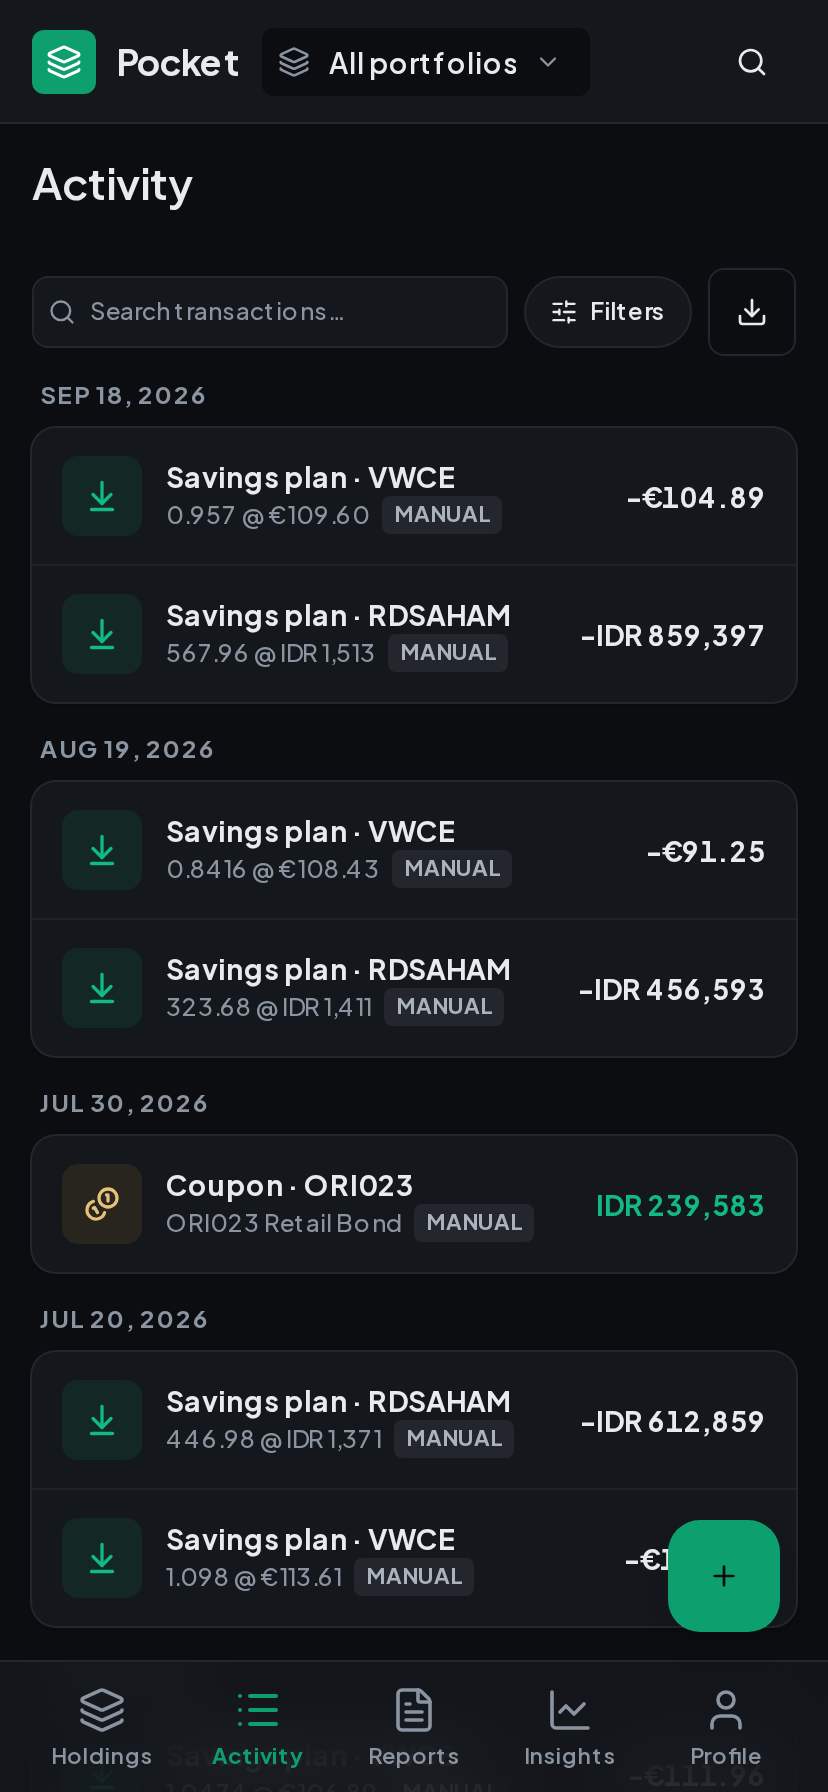
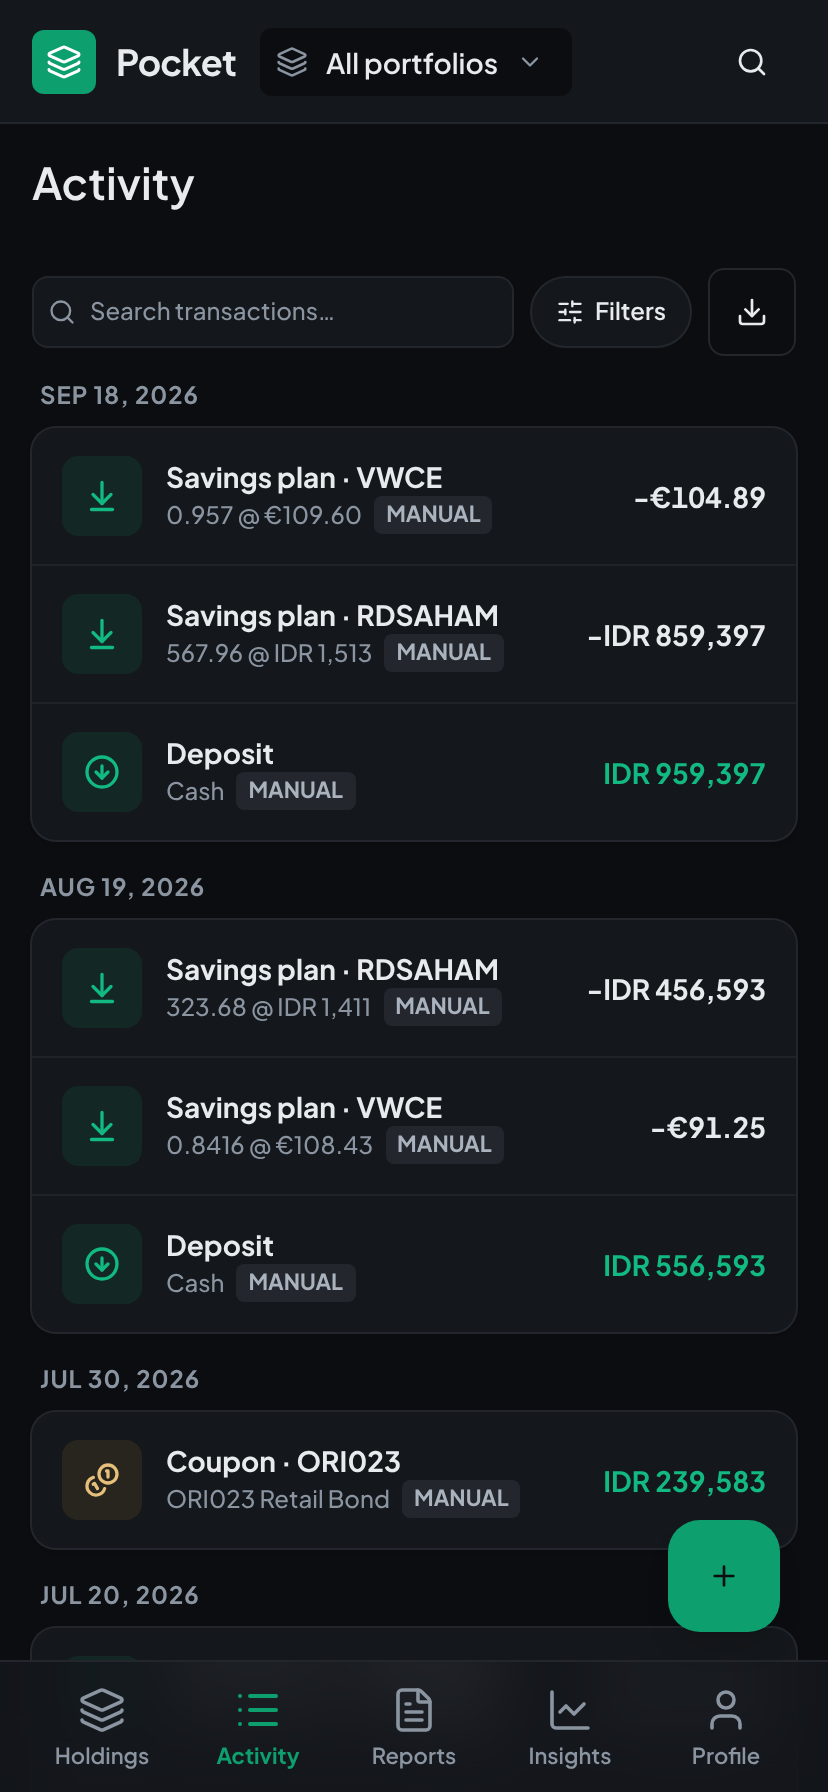
chore(screenshots): capture the German tax screens in EUR (#1065)
* chore(screenshots): capture the German tax screens in EUR

The tax captures render the DE regime (FSA allowance, Vorabpauschale), which
reads naturally in euros, but showed the demo user's IDR display currency.

- scripts/screenshots.mjs: screens can carry `settings` that are switched for
  that capture only and restored afterwards (also when the capture throws), via
  the same endpoints the app's own settings controls use (PATCH /me for the
  display currency, PUT /me/preferences for the regime), through the
  same-origin backend proxy. The tax screen pins taxRegime DE (previously only
  the API default) and displayCurrency EUR; every other screen keeps IDR. A
  setting the API doesn't echo back fails the run; already-applied settings
  are rolled back on a partial failure.
- seed-demo: seed IDR->EUR daily rates (the exact inverse of EUR->IDR). With
  FX_PROVIDER=none nothing filled that pair, so in EUR the IDR holdings were
  left out of every total behind an "Exchange rate missing" banner. Rates are
  now rounded to 20 significant digits instead of 10 decimal places, which
  would have kept only ~6 digits of a ~0.00006 rate.
- Recaptured every screen on current main (through #1063) and regenerated the
  OG card. Holdings/Insights figures are unchanged (chart-animation frames
  only); Activity and the Reports tax card pick up the interest rows #1063
  seeded.

Claude-Session: https://claude.ai/code/session_01MCMBjbxwVkouF222d7Qeyb
[…]

diff --git a/apps/web/test/screenshots-script.test.ts b/apps/web/test/screenshots-script.test.ts
@@ -4,6 +4,11 @@ import {
   settle,
   devOverlayHasIssues,
   DEV_INDICATOR_HIDE_CSS,
+  SCREENS,
+  withSettings,
+  CHROMIUM_ARGS,
+  assertLocalWebUrl,
+  hintingWarning,
 } from "../scripts/screenshots.mjs";
 
 describe("screenshots script — dev indicator", () => {
@@ -99,5 +104,213 @@ describe("screenshots script — dev indicator", () => {
     expect(devOverlayHasIssues()).toBe(true);
     portal.remove();
     expect(devOverlayHasIssues()).toBe(false);
+  });
+});
+
+describe("screenshots script — per-screen settings", () => {
+  /** A stub Playwright APIRequestContext over an in-memory user + preferences row. */
+  function stubRequest(state = { displayCurrency: "IDR", taxRegime: "DE" }, failOn?: string) {
+    const calls: string[] = [];
+    const request = {
+      fetch: vi.fn(async (url: string, opts: { method: string; data?: Record<string, string> }) => {
+        const route = new URL(url).pathname;
+        calls.push(`${opts.method} ${route}`);
+        const status = failOn === `${opts.method} ${route}` ? 500 : 200;
+        if (status === 200 && opts.data) Object.assign(state, opts.data);
+        const body =
+          route === "/api/backend/me"
+            ? { displayCurrency: state.displayCurrency }
+            : { taxRegime: state.taxRegime };
+        return { ok: () => status === 200, status: () => status, json: async () => body };
+      }),
+    };
+    return { request, state, calls };
+  }
+
+  it("captures the tax screen in the DE regime with EUR as the display currency", () => {
+    const tax = SCREENS.find((s: { slug: string }) => s.slug === "tax");
+    expect(tax?.settings).toEqual({ taxRegime: "DE", displayCurrency: "EUR" });
+    // Every other screen stays in the demo user's own (IDR) display currency.
+    for (const s of SCREENS.filter((s: { slug: string }) => s.slug !== "tax"))
+      expect(s.settings).toBeUndefined();
+  });
+
+  it("withSettings applies the settings for the capture, then restores the previous ones", async () => {
+    const { request, state, calls } = stubRequest();
+    let during: unknown;
+    await withSettings({ request }, { taxRegime: "DE", displayCurrency: "EUR" }, async () => {
+      during = { ...state };
+    });
+    expect(during).toEqual({ displayCurrency: "EUR", taxRegime: "DE" });
+    expect(state).toEqual({ displayCurrency: "IDR", taxRegime: "DE" });
+    // Through the same-origin proxy the app's own settings controls use.
+    expect(calls).toContain("PATCH /api/backend/me");
+    expect(calls).toContain("PUT /api/backend/me/preferences");
+  });
+
+  it("withSettings restores the previous settings even when the capture fails", async () => {
+    const { request, state } = stubRequest();
+    await expect(
+      withSettings({ request }, { displayCurrency: "EUR" }, async () => {
+        throw new Error("tax: page did not settle");
+      }),
+    ).rejects.toThrow(/did not settle/);
+    expect(state.displayCurrency).toBe("IDR");
+  });
+
+  it("withSettings fails the run when a setting can't be applied", async () => {
+    const { request } = stubRequest(undefined, "PATCH /api/backend/me");
+    const capture = vi.fn();
+    await expect(withSettings({ request }, { displayCurrency: "EUR" }, capture)).rejects.toThrow(
+      /PATCH \/api\/backend\/me .*500/,
+    );
+    expect(capture).not.toHaveBeenCalled();
+  });
+
+  it("withSettings puts back the settings it already applied when a later one fails", async () => {
+    const { request, state } = stubRequest(
+      { displayCurrency: "IDR", taxRegime: "ID" },
+      "PATCH /api/backend/me",
+    );
+    const capture = vi.fn();
+    await expect(
+      withSettings({ request }, { taxRegime: "DE", displayCurrency: "EUR" }, capture),
+    ).rejects.toThrow(/PATCH \/api\/backend\/me .*500/);
+    expect(capture).not.toHaveBeenCalled();
+    expect(state).toEqual({ displayCurrency: "IDR", taxRegime: "ID" });
+  });
+
+  it("withSettings fails the run when the API doesn't echo the new value back", async () => {
+    const { request } = stubRequest();
+    request.fetch.mockImplementation(async () => ({
+      ok: () => true,
+      status: () => 200,
+      json: async () => ({ displayCurrency: "IDR" }),
+    }));
+    await expect(withSettings({ request }, { displayCurrency: "EUR" }, vi.fn())).rejects.toThrow(
+      /displayCurrency to EUR did not stick \(API answered IDR\)/,
+    );
+  });
+
+  it("withSettings restores every original even when restoring one of them fails", async () => {
+    // Restore must write the recorded originals, not re-read the (temporary) current values:
+    // otherwise a failed second restore leaves the first key on its temporary value too.
+    const state = { displayCurrency: "IDR", taxRegime: "ID" };
+    let restoring = false;
+    const request = {
+      fetch: vi.fn(async (url: string, opts: { method: string; data?: Record<string, string> }) => {
+        const route = new URL(url).pathname;
+        const fail = restoring && opts.method === "PATCH";
+        if (!fail && opts.data) Object.assign(state, opts.data);
+        const body =
+          route === "/api/backend/me"
+            ? { displayCurrency: state.displayCurrency }
+            : { taxRegime: state.taxRegime };
+        return { ok: () => !fail, status: () => (fail ? 500 : 200), json: async () => body };
+      }),
+    };
+    await expect(
+      withSettings({ request }, { taxRegime: "DE", displayCurrency: "EUR" }, async () => {
+        restoring = true;
+      }),
+    ).rejects.toThrow(/could not restore displayCurrency to IDR/);
+    expect(state.taxRegime).toBe("ID");
+  });
+
+  it("withSettings reports the capture's error and a failed restore together", async () => {
+    let restoring = false;
+    const state = { displayCurrency: "IDR", taxRegime: "DE" };
+    const request = {
+      fetch: vi.fn(
+        async (_url: string, opts: { method: string; data?: Record<string, string> }) => {
+          const fail = restoring && opts.method !== "GET";
+          if (!fail && opts.data) Object.assign(state, opts.data);
+          return {
+            ok: () => !fail,
+            status: () => (fail ? 500 : 200),
+            json: async () => ({ displayCurrency: state.displayCurrency }),
+          };
+        },
+      ),
+    };
+    const warn = vi.spyOn(console, "warn").mockImplementation(() => {});
+    await expect(
+      withSettings({ request }, { displayCurrency: "EUR" }, async () => {
+        restoring = true;
+        throw new Error("tax: page did not settle");
+      }),
+    ).rejects.toThrow(
+      // Both, loudly: the instance is left on the temporary settings, so a later capture
+      // against it must not treat them as the originals.
+      /tax: page did not settle.*could not restore displayCurrency to IDR/s,
+    );
+    warn.mockRestore();
+  });
+
+  it("withSettings accepts an echo the API coerced (e.g. a number for a numeric string)", async () => {
+    const state: Record<string, unknown> = { taxRegime: "DE" };
+    const request = {
+      fetch: vi.fn(
+        async (_url: string, opts: { method: string; data?: Record<string, string> }) => {
+          if (opts.data) Object.assign(state, opts.data);
+          // Echo a coerced form, as /me/preferences does for numeric fields.
+          return { ok: () => true, status: () => 200, json: async () => ({ taxRegime: 1 }) };
+        },
+      ),
+    };
+    await expect(withSettings({ request }, { taxRegime: "1" }, async () => 7)).resolves.toBe(7);
+  });
+
+  it("withSettings rejects an unknown setting instead of silently capturing without it", async () => {
+    const { request } = stubRequest();
+    await expect(withSettings({ request }, { locale: "de" }, vi.fn())).rejects.toThrow(
+      /unknown screen setting "locale"/,
+    );
+  });
+
+  it("withSettings is a plain pass-through for a screen without settings", async () => {
+    const { request, calls } = stubRequest();
+    expect(await withSettings({ request }, undefined, async () => 42)).toBe(42);
+    expect(calls).toEqual([]);
+  });
+});
+
+describe("screenshots script — text rendering", () => {
+  it("launches Chromium without font hinting, so 2x captures don't break words apart", () => {
+    // Headless Chromium on Linux hints glyphs by default: at the narrow captures' small text
+    // sizes the snapped advances read as gaps inside words ("Estimat ed", "Pocke t", "YT D").
+    expect(CHROMIUM_ARGS).toContain("--font-render-hinting=none");
+  });
+
+  it("warns that the flag only takes effect on Linux", () => {
+    expect(hintingWarning("linux")).toBeNull();
+    expect(hintingWarning("darwin")).toMatch(/only applies on Linux/);
+    expect(hintingWarning("win32")).toMatch(/only applies on Linux/);
+  });
+});
+
+describe("screenshots script — target guard", () => {
+  it("accepts the local demo instance", () => {
+    expect(() => assertLocalWebUrl("http://localhost:3915", {})).not.toThrow();
+    expect(() => assertLocalWebUrl("http://127.0.0.1:3915", {})).not.toThrow();
+  });
+
+  it("refuses a remote host, since it switches the signed-in user's settings", () => {
+    expect(() => assertLocalWebUrl("https://pocket.example.com", {})).toThrow(
+      /refusing to capture against pocket\.example\.com/,
+    );
+  });
+
+  it("allows a remote host only when the override names that exact host", () => {
+    expect(() =>
+      assertLocalWebUrl("https://pocket.example.com", {
+        SCREENSHOTS_ALLOW_REMOTE: "pocket.example.com",
+      }),
+    ).not.toThrow();
+    // A stray generic flag (or another host's) must not open every deployment.
+    for (const flag of ["1", "true", "staging.example.com"])
+      expect(() =>
+        assertLocalWebUrl("https://pocket.example.com", { SCREENSHOTS_ALLOW_REMOTE: flag }),
+      ).toThrow(/refusing to capture against pocket\.example\.com/);
   });
 });

diff --git a/services/api/src/db/seed-demo.ts b/services/api/src/db/seed-demo.ts
@@ -1910,13 +1910,16 @@ export async function seedDemo(patOutPath?: string): Promise<void> {
   // --- FX rates — daily history 2020-today for every currency pair the
   // seeded holdings actually need. See fx.ts: rows are (base=from, quote=to,
   // date), read for `quote = displayCurrency`. IDR is the default aggregate
-  // display currency; EUR/USD/CAD are the foreign currencies any holding has.
+  // display currency; EUR/USD/CAD are the foreign currencies any holding has. EUR is
+  // seeded as a display currency too (IDR→EUR, plus the USD/CAD→EUR legs): the DE tax
+  // screenshots render in euros, and with FX_PROVIDER=none nothing else fills the pair.
 
   // Scope cleanup to only the pairs this seed owns — the table is global
   // reference data shared with other users/devs on a shared dev DB, so
   // `delete(fxRates)` would nuke everyone else's cache.
   const seededPairs = [
     { base: "EUR", quote: "IDR" },
+    { base: "IDR", quote: "EUR" },
     { base: "USD", quote: "IDR" },
     { base: "USD", quote: "EUR" },
     { base: "CAD", quote: "IDR" },
@@ -1976,14 +1979,17 @@ export async function seedDemo(patOutPath?: string): Promise<void> {
     const usdIdr = new Decimal(at(lo.usdIdr, hi?.usdIdr).toFixed(0));
     const cadIdr = new Decimal(at(lo.cadIdr, hi?.cadIdr).toFixed(0));
     const dateStr = isoDate(new Date(ms));
+    // Significant digits, not decimal places: IDR→EUR (~0.00006) would keep only ~6 at 10 dp.
     const row = (base: string, quote: string, rate: Decimal) => ({
       base,
       quote,
-      rate: rate.toDecimalPlaces(10).toFixed(),
+      rate: rate.toSignificantDigits(20).toFixed(),
       date: dateStr,
     });
     fxRows.push(
       row("EUR", "IDR", eurIdr),
+      // The inverse (to 20 significant digits), so IDR→EUR→IDR round-trips.
+      row("IDR", "EUR", new Decimal(1).div(eurIdr)),
       row("USD", "IDR", usdIdr),
       row("USD", "EUR", usdIdr.div(eurIdr)),
       row("CAD", "IDR", cadIdr),

diff --git a/services/api/test/db/seed-demo.test.ts b/services/api/test/db/seed-demo.test.ts
@@ -235,6 +235,31 @@ describe("seedDemo — FX rates (#989, #1006)", () => {
     }
   }, 60_000);
 
+  it("also covers EUR as the display currency (the DE tax screenshots), inverse of EUR→IDR", async () => {
+    await ensureDb();
+    await seedDemo();
+    const db = getDb();
+    const provider = {
+      getRate: vi.fn(async () => null),
+      getRateHistory: vi.fn(async () => ({})),
+    } satisfies FxProvider;
+    const dates = Array.from({ length: 400 }, (_, i) =>
+      toDateKey(new Date(Date.now() - i * 864e5)),
+    );
+    // Without IDR→EUR rows the IDR holdings drop out of every EUR total (the "Exchange rate
+    // missing" banner), since FX_PROVIDER=none leaves no live source to fill the pair.
+    const toEur = await getFxRatesForDates(db, ["IDR", "USD", "CAD"], "EUR", dates, provider);
+    const toIdr = await getFxRatesForDates(db, ["EUR"], "IDR", dates, provider);
+    expect(provider.getRate).not.toHaveBeenCalled();
+    expect(provider.getRateHistory).not.toHaveBeenCalled();
+    for (const d of dates) {
+      for (const ccy of ["IDR", "USD", "CAD"])
+        expect(toEur.get(d)?.[ccy], `${ccy}→EUR ${d}`).toBeTruthy();
+      const product = new Decimal(toEur.get(d)!.IDR!).mul(toIdr.get(d)!.EUR!);
+      expect(rel(product, 1).lt("1e-9"), `IDR→EUR × EUR→IDR ${d}`).toBe(true);
+    }
+  }, 60_000);
+
   it("is triangularly consistent: USD→EUR × EUR→IDR == USD→IDR (same for CAD)", async () => {
     await ensureDb();
     await seedDemo();
